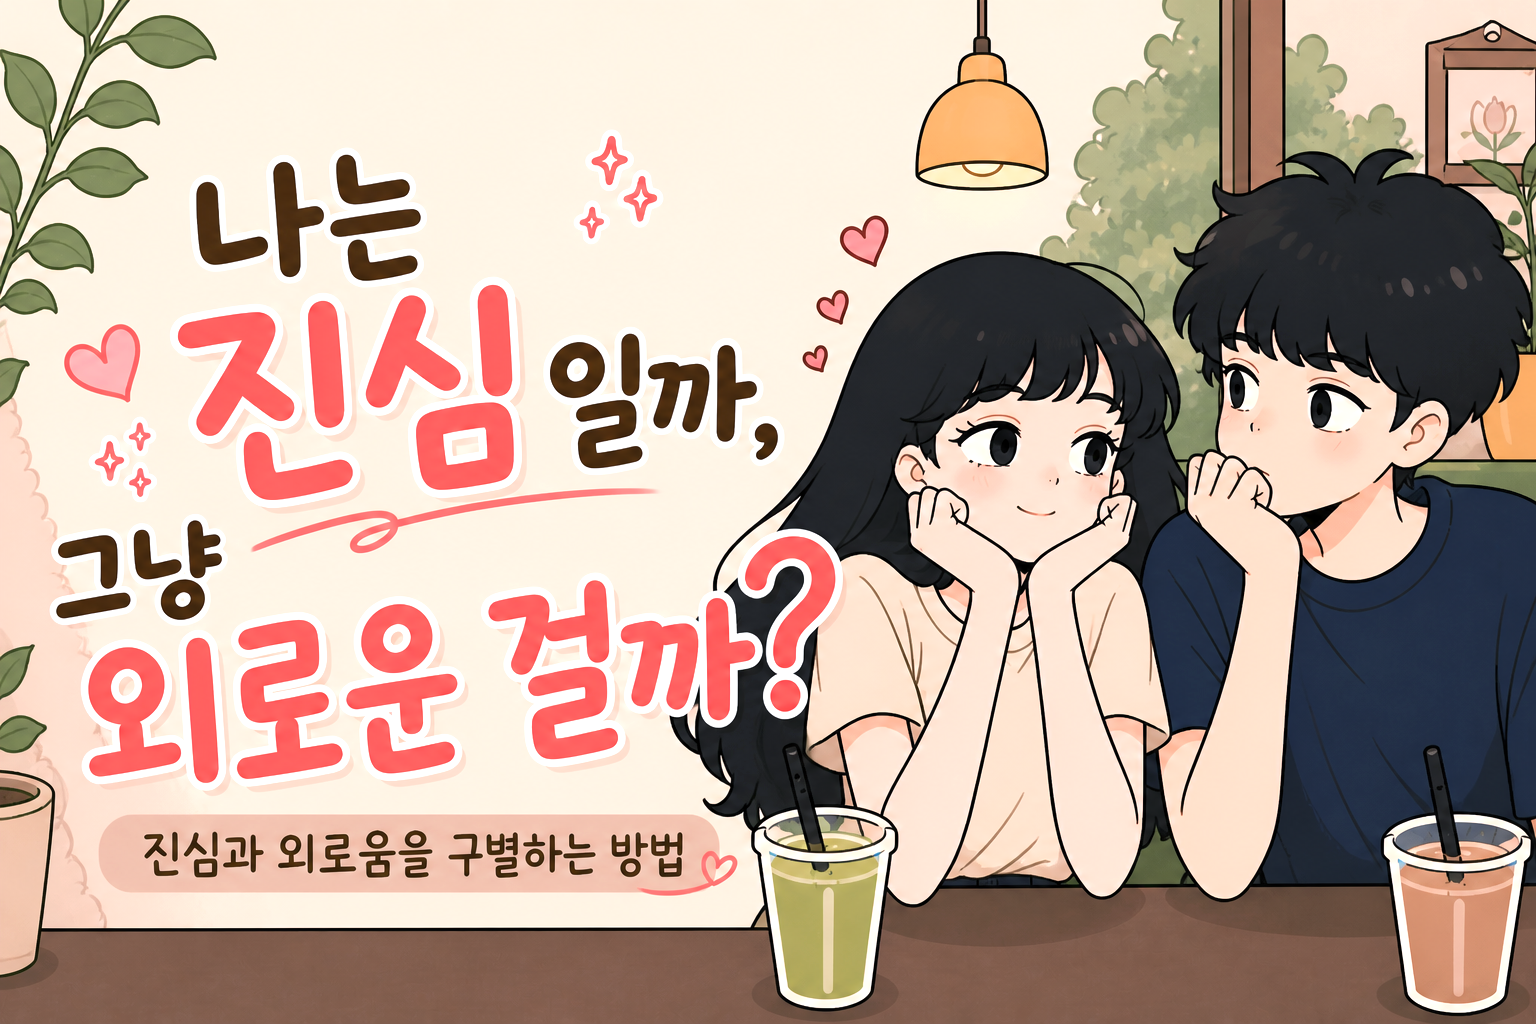
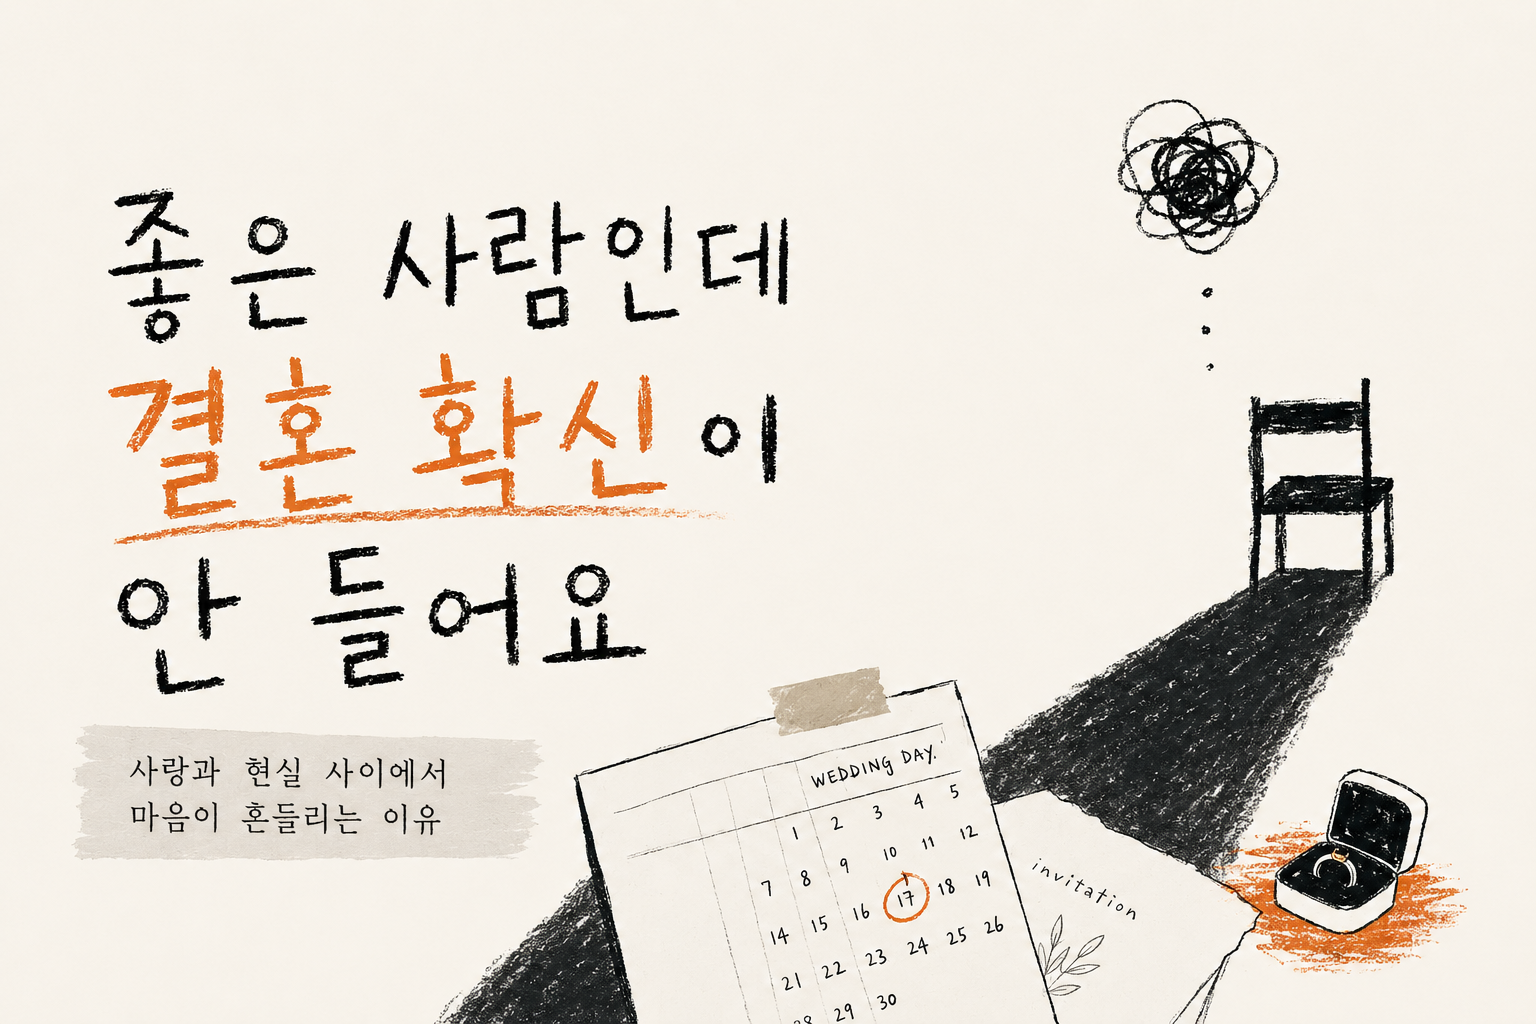
썸네일 테스트

diff --git a/src/components/home/category-tabs-sticky.tsx b/src/components/home/category-tabs-sticky.tsx
@@ -45,7 +45,7 @@ const CategoryTabsSticky = () => {
       <div
         data-testid="category-tabs-sticky"
         className={[
-          "fixed left-0 right-0 top-[52px] z-30",
+          "fixed left-0 right-0 top-[51px] z-30",
 
           isScrolled ? "block" : "hidden",
         ].join(" ")}